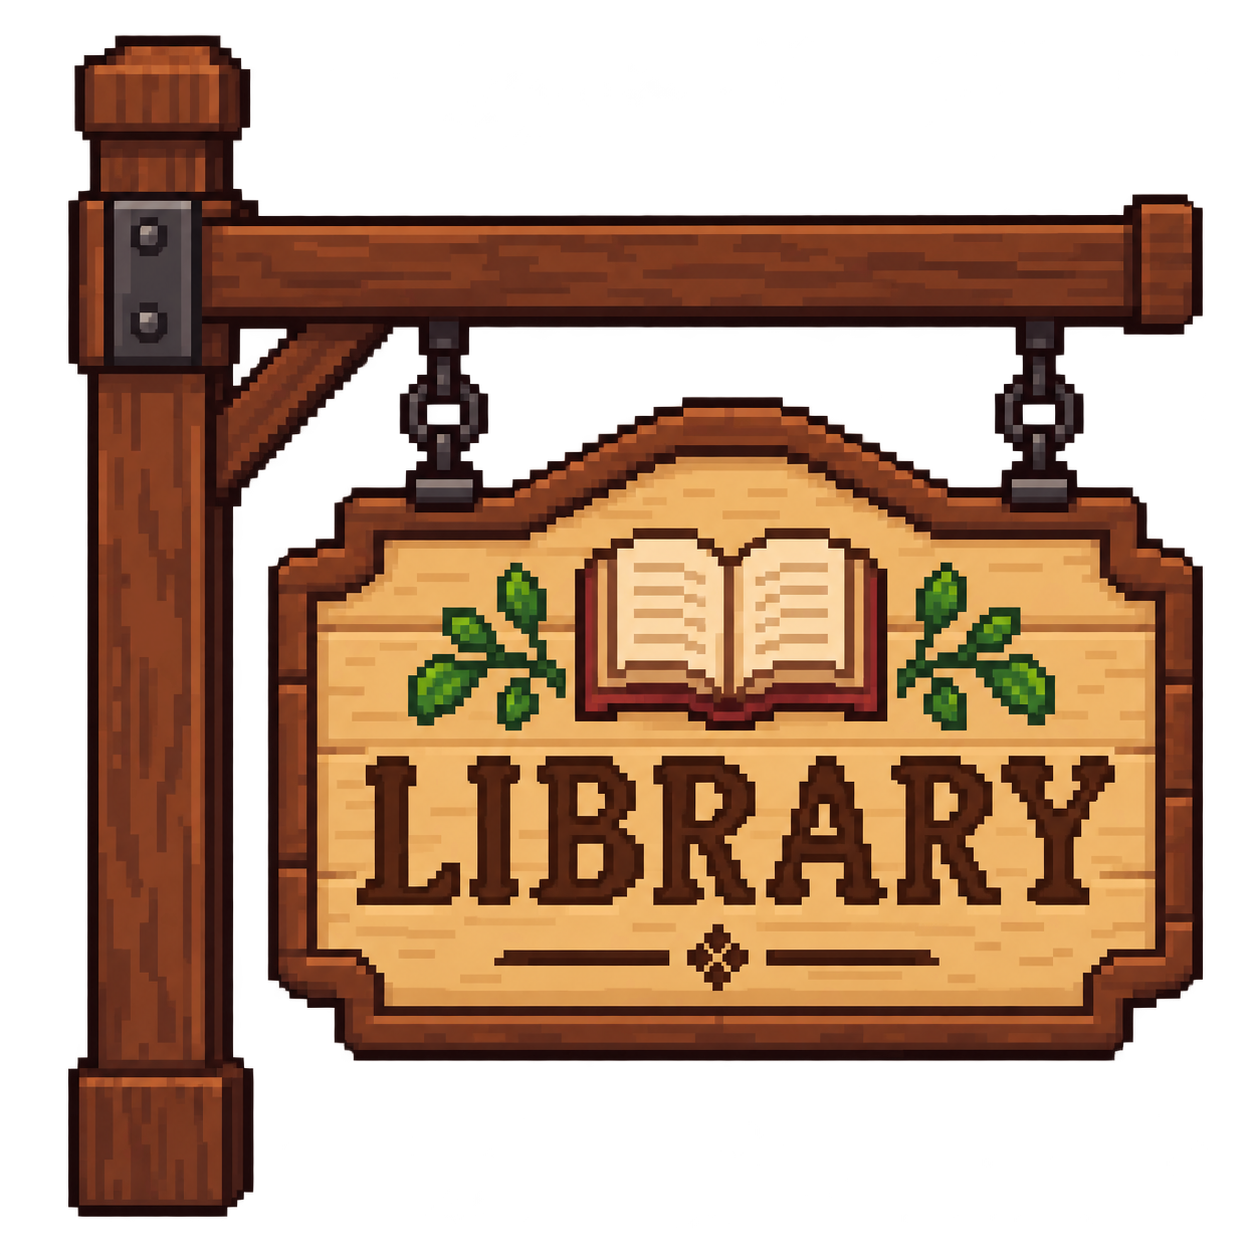
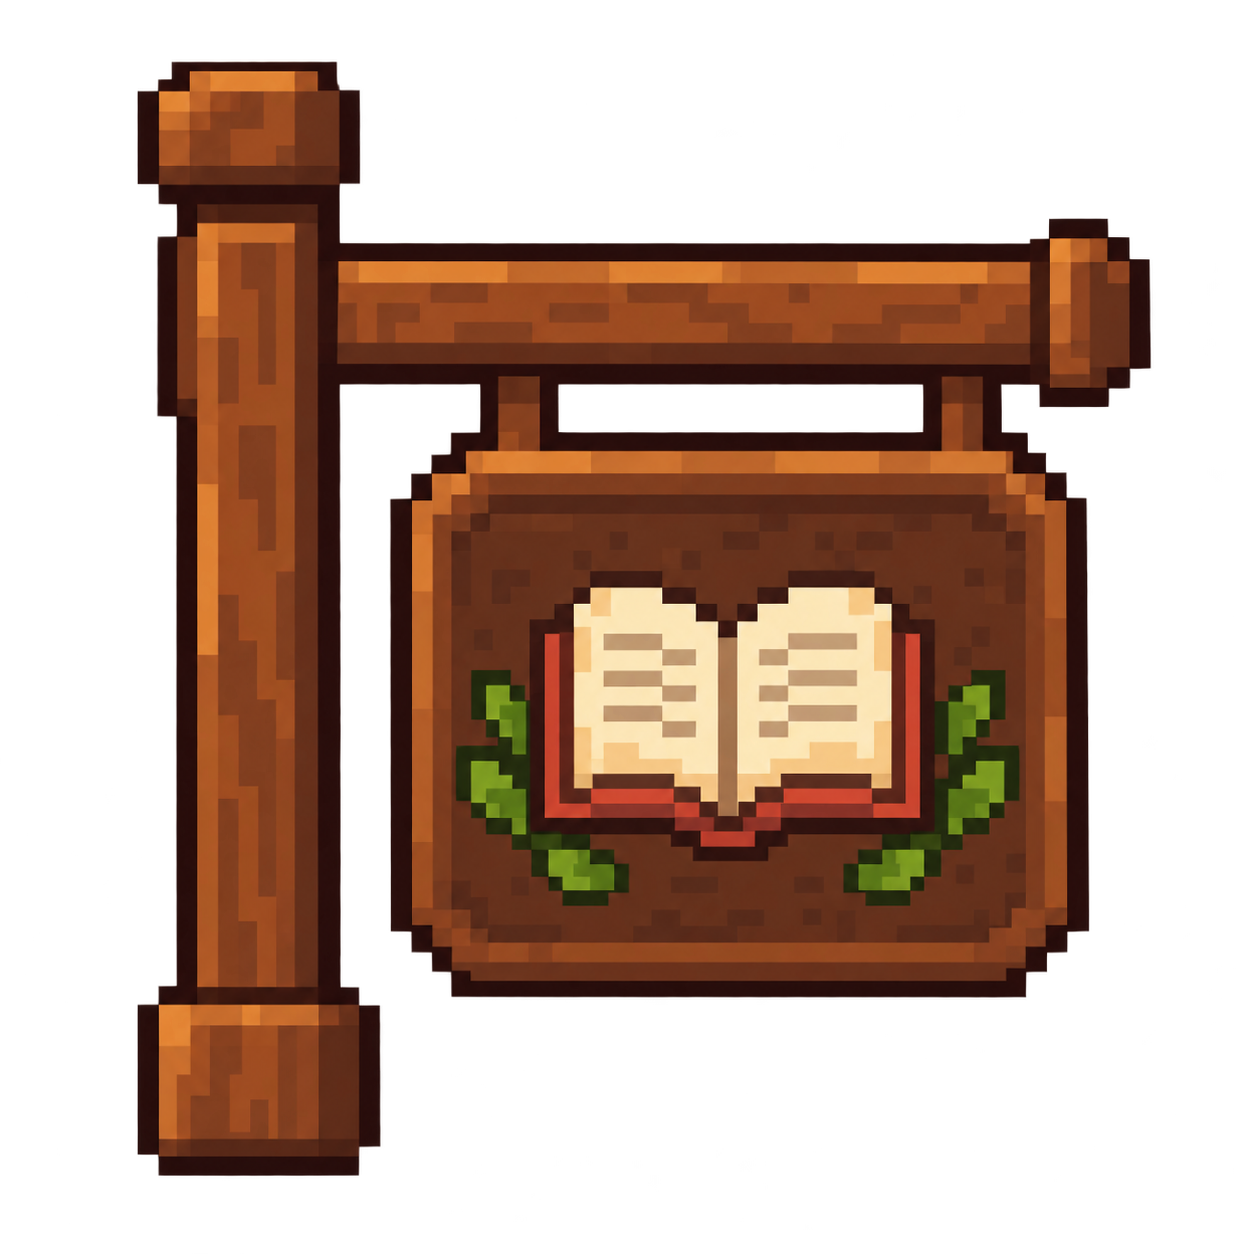
fixed some UI

diff --git a/src/main.js b/src/main.js
@@ -1,8 +1,7 @@
 import standingUrl from '../assets/standing.png';
 import moveUpUrl from '../assets/moveup.png';
 import moveDownUrl from '../assets/movedown.png';
-import moveLeftUrl from '../assets/moveleft.png';
-import moveRightUrl from '../assets/moveright.png';
+import walkLeftUrl from '../assets/leftwalking.png';
 import doorUrl from '../assets/door.png';
 import treeUrl from '../assets/tree.png';
 import bushUrl from '../assets/bush.png';
@@ -410,14 +409,14 @@ function drawLibraryBackground() {
 
 // ---- Flower shop ----
 
-const SHOP = { x: 240, w: 800, bottom: 390, door: { x: 565, w: 150 } };
+const SHOP = { x: 300, w: 680, bottom: 390, door: { x: 565, w: 150 } };
 const SHOP_PLAZA_Y = 440;
 const SHOP_SHELF_BOTTOM = 206;
 const SHOP_WALL_SHELF_SPECS = [
-  { frame: 'flowerShelf', x: 282, h: 150 },
-  { frame: 'flowerShelf', x: 420, h: 150 },
-  { frame: 'flowerShelf', x: 720, h: 150 },
-  { frame: 'flowerShelf', x: 858, h: 150 },
+  { frame: 'flowerShelf', x: 330, h: 150 },
+  { frame: 'flowerShelf', x: 466, h: 150 },
+  { frame: 'flowerShelf', x: 674, h: 150 },
+  { frame: 'flowerShelf', x: 810, h: 150 },
 ];
 let shopWallShelves = [];
 
@@ -430,15 +429,14 @@ const SHOP_WALKABLE = [
 
 const SHOP_ITEMS = [
   // inside
-  { frame: 'cashRegister', x: 300, y: 235, h: 100, hits: [[0.02, 0.5, 0.96, 0.5]] },
-  { frame: 'flowerPots', x: 860, y: 225, h: 120, hits: [[0.05, 0.55, 0.9, 0.45]] },
-  { frame: 'flowerPots', x: 395, y: 330, h: 90, hits: [[0.05, 0.55, 0.9, 0.45]] },
-  { s: 'plant_large', x: 290, y: 330, ground: true },
-  { s: 'plant_large', x: 960, y: 320, ground: true },
+  { frame: 'cashRegister', x: 345, y: 235, h: 100, hits: [[0.02, 0.5, 0.96, 0.5]] },
+  { frame: 'flowerPots', x: 820, y: 225, h: 120, hits: [[0.05, 0.55, 0.9, 0.45]] },
+  { s: 'plant_large', x: 335, y: 320, ground: true },
+  { s: 'plant_large', x: 915, y: 320, ground: true },
   { s: 'plant_flower', x: 790, y: 330, ground: true },
   // outside: tent, sign, pots, seating
   { frame: 'flowerTent', x: 800, y: 365, h: 210, hits: [[0.03, 0.5, 0.94, 0.5]] },
-  { frame: 'flowerPost', x: 100, y: 310, h: 170, hits: [[0.02, 0.8, 0.25, 0.2]] },
+  { frame: 'flowerPost', x: SHOP.x - 62, y: 230, h: 90, hits: [] },
   { frame: 'flowerPots', x: 440, y: 455, h: 100, hits: [[0.05, 0.55, 0.9, 0.45]] },
   { frame: 'flowerPots', x: 1090, y: 455, h: 100, hits: [[0.05, 0.55, 0.9, 0.45]] },
   { s: 'table_chairs_cup', x: 290, y: 470, ground: true },
@@ -477,7 +475,7 @@ function drawShopBackground() {
   drawFrame(frames.post, door.x + door.w, SHOP.bottom, 26, WALL_WAINSCOT_H);
 
   const win = frames.window;
-  const winW = 70;
+  const winW = 60;
   const winH = Math.round(winW * (win.sh / win.sw));
   ctx.drawImage(win.img, win.sx, win.sy, win.sw, win.sh, 640 - winW / 2, 36, winW, winH);
 
@@ -556,12 +554,16 @@ const PLAYER_SPEED = 170;
 const FEET_HALF_W = 12;
 const FEET_H = 8;
 
+const WALK_SHEETS = { left: { url: walkLeftUrl, mirror: false }, right: { url: walkLeftUrl, mirror: true } };
+const WALK_CELLS = 3;
+const WALK_CYCLE = [0, 1, 2, 1];
+const WALK_FPS = 9;
+const walkSheets = {};
+
 const PLAYER_URLS = {
   standing: standingUrl,
   up: moveUpUrl,
   down: moveDownUrl,
-  left: moveLeftUrl,
-  right: moveRightUrl,
   door: doorUrl,
   tree: treeUrl,
   bush: bushUrl,
@@ -644,6 +646,66 @@ function loadFrame(url) {
   });
 }
 
+function loadWalkSheet({ url, mirror }) {
+  return new Promise((resolve, reject) => {
+    const img = new Image();
+    img.onload = () => {
+      const c = document.createElement('canvas');
+      c.width = img.width;
+      c.height = img.height;
+      const cx = c.getContext('2d');
+      if (mirror) { cx.translate(c.width, 0); cx.scale(-1, 1); }
+      cx.drawImage(img, 0, 0);
+      const data = cx.getImageData(0, 0, c.width, c.height).data;
+
+      // find each figure as a run of non-empty columns separated by a wide gap
+      const colHasInk = new Array(c.width).fill(false);
+      for (let y = 0; y < c.height; y++) {
+        for (let x = 0; x < c.width; x++) {
+          if (data[(y * c.width + x) * 4 + 3] > 16) colHasInk[x] = true;
+        }
+      }
+      const runs = [];
+      let start = -1;
+      let lastInk = -1;
+      for (let x = 0; x < c.width; x++) {
+        if (!colHasInk[x]) continue;
+        if (start === -1) start = x;
+        else if (x - lastInk > 30) { runs.push([start, lastInk]); start = x; }
+        lastInk = x;
+      }
+      if (start !== -1) runs.push([start, lastInk]);
+      if (runs.length !== WALK_CELLS) { reject(new Error(`Expected ${WALK_CELLS} walk frames in ${url}, found ${runs.length}`)); return; }
+
+      const boxes = runs.map(([x0, x1]) => {
+        let minY = c.height, maxY = -1, sumX = 0, n = 0;
+        for (let y = 0; y < c.height; y++) {
+          for (let x = x0; x <= x1; x++) {
+            if (data[(y * c.width + x) * 4 + 3] <= 16) continue;
+            if (y < minY) minY = y;
+            if (y > maxY) maxY = y;
+            sumX += x;
+            n++;
+          }
+        }
+        return { x0, x1, minY, maxY, mx: sumX / n };
+      });
+      const halfW = Math.ceil(Math.max(...boxes.map((b) => Math.max(b.mx - b.x0, b.x1 - b.mx))) + 1);
+      const scale = PLAYER_HEIGHT / Math.max(...boxes.map((b) => b.maxY - b.minY + 1));
+      resolve(boxes.map((b) => ({
+        img: c,
+        sx: Math.round(b.mx) - halfW,
+        sy: b.minY,
+        sw: halfW * 2,
+        sh: b.maxY - b.minY + 1,
+        scale,
+      })));
+    };
+    img.onerror = () => reject(new Error(`Failed to load walk sheet: ${url}`));
+    img.src = url;
+  });
+}
+
 async function loadPlayerFrames() {
   grassImage = await new Promise((resolve, reject) => {
     const img = new Image();
@@ -651,6 +713,9 @@ async function loadPlayerFrames() {
     img.onerror = () => reject(new Error('Failed to load grass'));
     img.src = grassUrl;
   });
+  await Promise.all(Object.entries(WALK_SHEETS).map(async ([dir, sheet]) => {
+    walkSheets[dir] = await loadWalkSheet(sheet);
+  }));
   await Promise.all(Object.entries(PLAYER_URLS).map(async ([name, url]) => {
     frames[name] = await loadFrame(url);
   }));
@@ -775,18 +840,20 @@ function drawPlayer() {
   let frame = frames.standing;
   let flip = false;
   let bob = 0;
+  const side = player.facing === 'left' || player.facing === 'right';
 
-  if (player.moving) {
+  if (side) {
+    const cells = walkSheets[player.facing];
+    frame = player.moving ? cells[WALK_CYCLE[Math.floor(player.t * WALK_FPS) % WALK_CYCLE.length]] : cells[1];
+  } else if (player.moving) {
     frame = frames[player.facing];
     bob = -Math.abs(Math.sin(player.t * 11)) * 3;
-    if (player.facing === 'up' || player.facing === 'down') {
-      flip = Math.floor(player.t * 5) % 2 === 1;
-    }
+    flip = Math.floor(player.t * 5) % 2 === 1;
   } else if (player.facing === 'up') {
     frame = frames.up;
   }
 
-  const scale = PLAYER_HEIGHT / frames.standing.sh;
+  const scale = frame.scale ?? PLAYER_HEIGHT / frame.sh;
   const dw = frame.sw * scale;
   const dh = frame.sh * scale;
   const px = Math.round(player.x);
